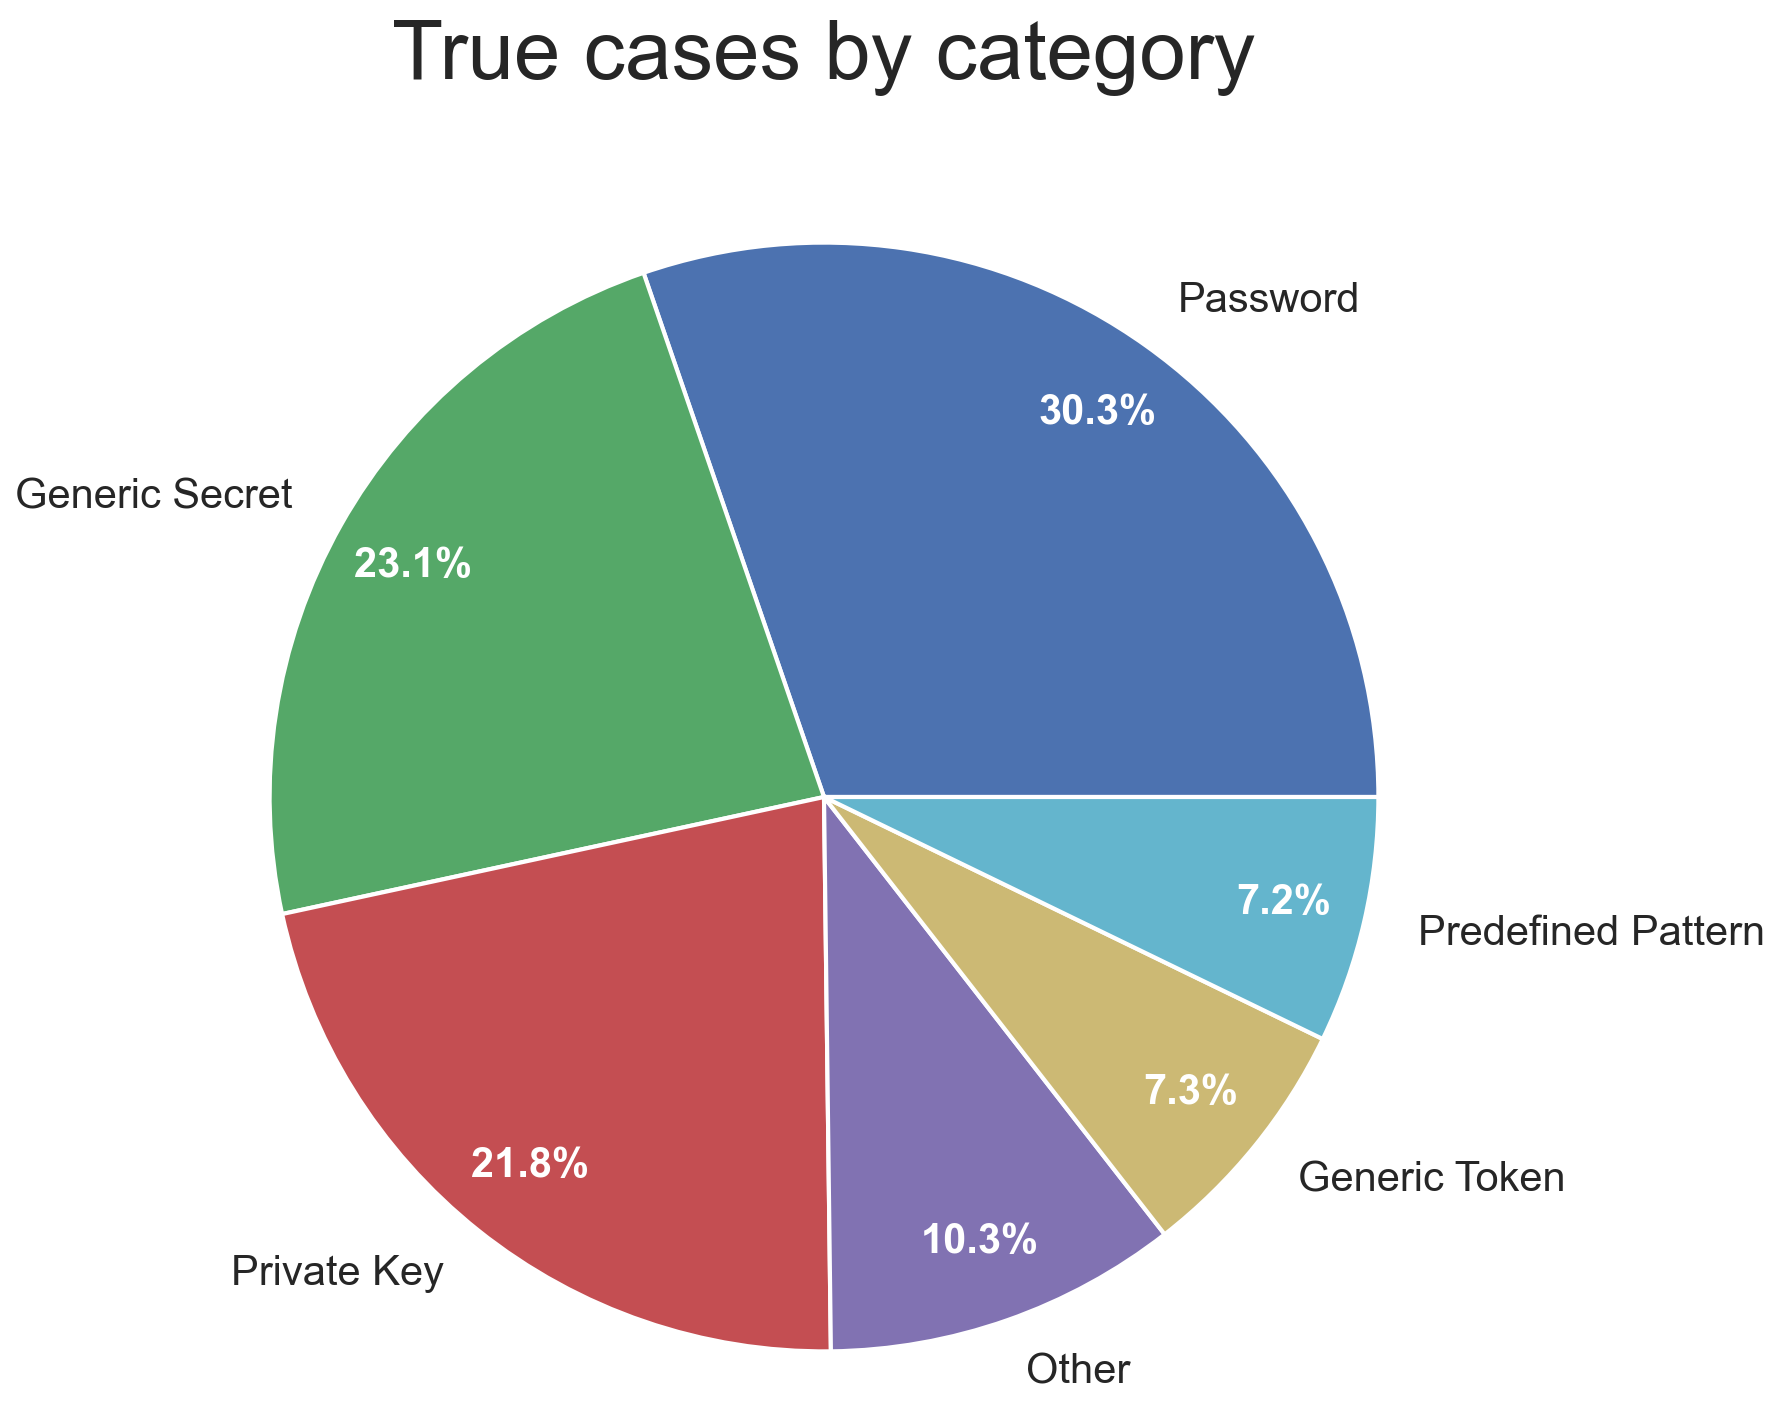
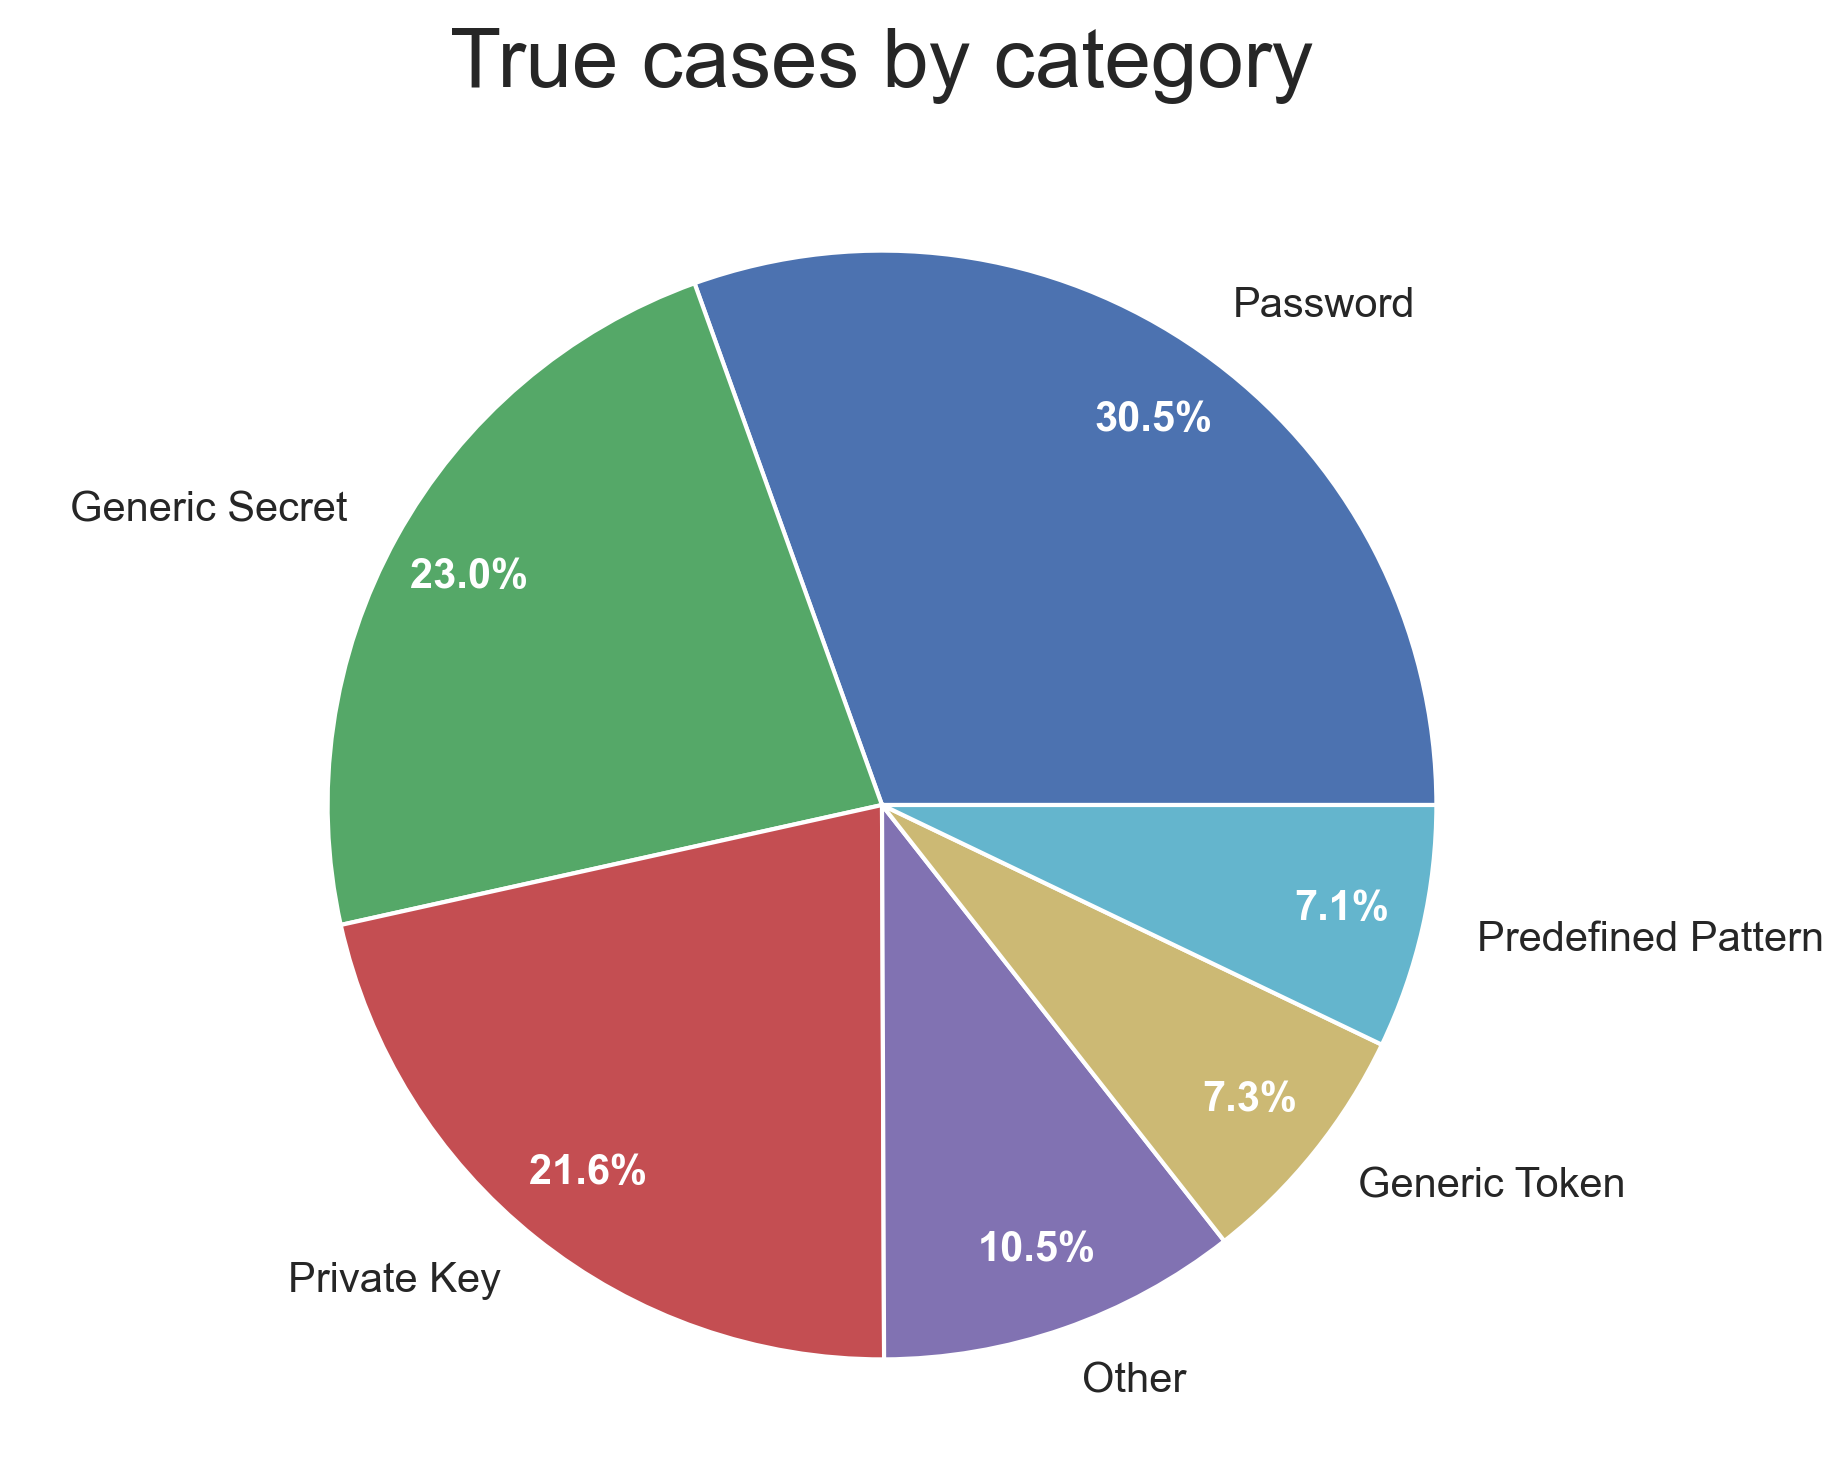
Update stats in README.md

diff --git a/README.md b/README.md
@@ -60,26 +60,26 @@ python download_data.py --data_dir data
 ### Data Statistics
 
 Dataset consists of 19,459,282 lines of code extracted from 11,408 files in 297 different repositories. 
-Total 59,907 lines of code are labeled, of which 6,002 (10.01%) labeled as True. 
+Total 74,549 lines of code are labeled, of which 4,595 (6%) labeled as True. 
 Labeled data divided into 8 major categories according to their properties.
 
 ##### Lines of code by language
 
 |Language|Total|Labeled|True|Language|Total|Labeled|True|
 |--------|--------|--------|--------|--------|--------|--------|--------|
-|Text|85,144|8,764|1,609|No Extension|48,645|1,037|49|
-|Go|838,816|6,225|458|Config|7,920|317|46|
-|YAML|74,643|2,662|344|AsciiDoc|27,803|432|36|
-|JavaScript|742,704|3,824|340|Shell|42,019|1,247|31|
-|Python|351,494|5,347|260|Haskell|5,127|85|31|
-|Markdown|186,099|3,479|248|Java Properties|1,878|118|30|
-|JSON|15,036,863|13,876|237|XML|57,377|1,343|23|
-|Ruby|186,196|4,373|145|reStructuredText|38,267|489|21|
-|Java|178,326|1,658|139|SQLPL|16,808|601|20|
-|Key|8,803|320|116|Objective-C|19,840|170|14|
-|TypeScript|151,832|2,442|79|TOML|2,566|238|12|
-|PHP|113,865|1,832|76|Scala|9,564|161|12|
-|Other|1,226,683|7,020|172|
+|Text|85,144|10,900|1,626|No Extension|48,645|1,144|49|
+|Go|838,816|6,589|459|Config|7,920|342|46|
+|YAML|74,643|2,842|344|AsciiDoc|27,803|449|36|
+|JavaScript|742,704|4,229|340|Shell|42,019|1,349|31|
+|Python|351,494|5,686|260|Haskell|5,127|90|31|
+|Markdown|186,099|3,806|259|Java Properties|1,878|124|30|
+|JSON|15,036,863|14,488|238|XML|57,377|1,412|25|
+|Java|178,326|1,776|154|reStructuredText|38,267|532|21|
+|Ruby|186,196|4,715|145|SQLPL|16,808|612|20|
+|Key|8,803|364|116|Objective-C|19,840|316|14|
+|TypeScript|151,832|2,578|79|TOML|2,566|239|12|
+|PHP|113,865|1,945|76|Scala|9,564|163|12|
+|Other|1,226,683|7,859|172|
 
 <img src="images/Language_true.png" width="450"/>
 
@@ -87,14 +87,14 @@ Labeled data divided into 8 major categories according to their properties.
 
 |[Category](#category)|True credentials|
 |--------|--------|
-|Password                    |  2,613|
-|Generic Secret              |  1,074|
-|Private Key                 |   993|
-|Generic Token               |   462|
-|Predefined Pattern          |   251|
-|Authentication Key & Token  |    49|
-|Seed, Salt, Nonce           |    40|
-|Other                       |   520|
+|Password                    |  1,401|
+|Generic Secret              |  1,056|
+|Private Key                 |   992|
+|Generic Token               |   335|
+|Predefined Pattern          |   327|
+|Authentication Key & Token  |    71|
+|Seed, Salt, Nonce           |    39|
+|Other                       |   374|
 
 <img src="images/Category.png" width="520"/>
 
@@ -310,13 +310,13 @@ For the tools used, see the [Used Tools for Benchmarking](#used-tools-for-benchm
 
 Name | TP | FP | TN | FN | FPR | FNR | Precision | Recall | F1
 ---- | -- | -- | -- | -- | --- | --- | --------- | ------ | --
-**CredSweeper** | 4,787 | 573 | 19,452,707 | 1,215 | 0.0000294552 | 0.2024325225 | 0.8930970149 | 0.7975674775 | 0.8426333392
-credential-digger | 652 | 3,924 | 19,449,356 | 5,350 | 0.0002017141 | 0.8913695435 | 0.1424825175 | 0.1086304565 | 0.1232747211
-detect-secrets | 2,901 | 9,446 | 19,443,834 | 3,101 | 0.0004855736 | 0.5166611130 | 0.2349558597 | 0.4833388870 | 0.3162025178
-gitleaks | 1,064 | 1,067 | 19,452,213 | 4,938 | 0.0000548494 | 0.8227257581 | 0.4992961051 | 0.1772742419 | 0.2616500676
-shhgit | 324 | 276 | 19,453,004 | 5,678 | 0.0000141878 | 0.9460179940 | 0.5400000000 | 0.0539820060 | 0.0981520751
-truffleHog | 2,603 | 13,747 | 19,439,533 | 3,399 | 0.0007066675 | 0.5663112296 | 0.1592048930 | 0.4336887704 | 0.2329098067
-wraith(gitrob) | 1,533 | 1,758 | 19,451,522 | 4,469 | 0.0000903704 | 0.7445851383 | 0.4658158614 | 0.2554148617 | 0.3299257506
+**CredSweeper** |3,661|761|19,453,926|934|0.0000391165|0.2032644178|0.8279059249|0.7967355822|0.8120217367
+credential-digger |479|4,871|19,449,816|4,116|0.0002503767|0.8957562568|0.0895327103|0.1042437432|0.0963298140
+detect-secrets |1,755|9,983|19,444,704|2,840|0.0005131411|0.6180631121|0.1495143977|0.3819368879|0.2149023449
+gitleaks |1,120|1,011|19,453,676|3,475|0.0000519669|0.7562568009|0.5255748475|0.2437431991|0.3330359798
+shhgit |330|306|19,454,381|4,265|0.0000157289|0.9281828074|0.5188679245|0.0718171926|0.1261709042
+truffleHog |2,509|14,234|19,440,453|2,086|0.0007316489|0.4539717084|0.1498536702|0.5460282916|0.2351673072
+wraith(gitrob) |898|3,099|19,451,588|3,697|0.0001592932|0.8045701850|0.2246685014|0.1954298150|0.2090316574
 
 - Terminology
   - TP(True Positive) : Values that are Actually Positive and Predicted Positive.
